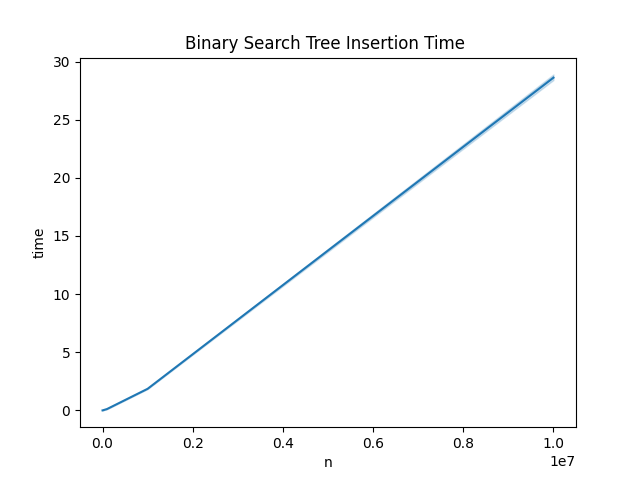
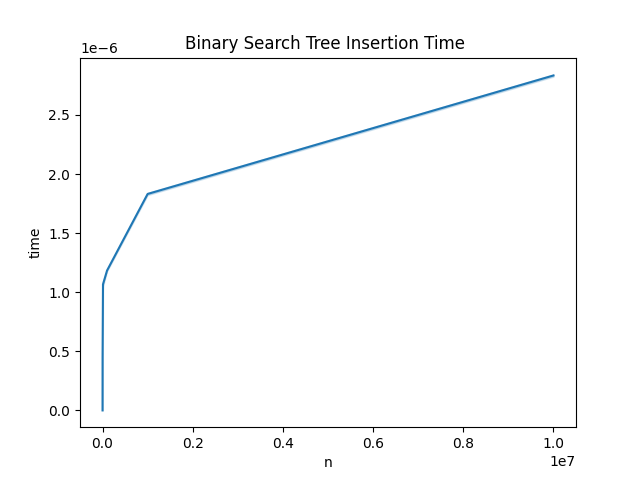
fix graphs

diff --git a/List vs BST/main.py b/List vs BST/main.py
@@ -36,7 +36,7 @@ def measure_times(datastructure, dataset):
                 datastructure.add(i)
             end = time.time()
             # Store run time
-            dataset[n].append(end - start)
+            dataset[n].append((end - start)/n)
 
         # Measure run time if data structure is a vector
         else:
@@ -58,7 +58,7 @@ def measure_times(datastructure, dataset):
                 datastructure.insert(mid, i)
             end = time.time()
             # Store run time
-            dataset[n].append(end - start)
+            dataset[n].append((end - start)/n)
 
 
     print(type(datastructure),"  n: ",n)
@@ -90,6 +90,7 @@ if __name__ == "__main__":
     df['time'] = df['time'].astype(float)
     sns.lineplot(x='n', y='time', data=df)
     plt.title('Vector with Binary Search Insertion Time')
+    plt.ylabel('Time (s)')
     plt.savefig('vector_insertion.png')
     plt.clf()
 
